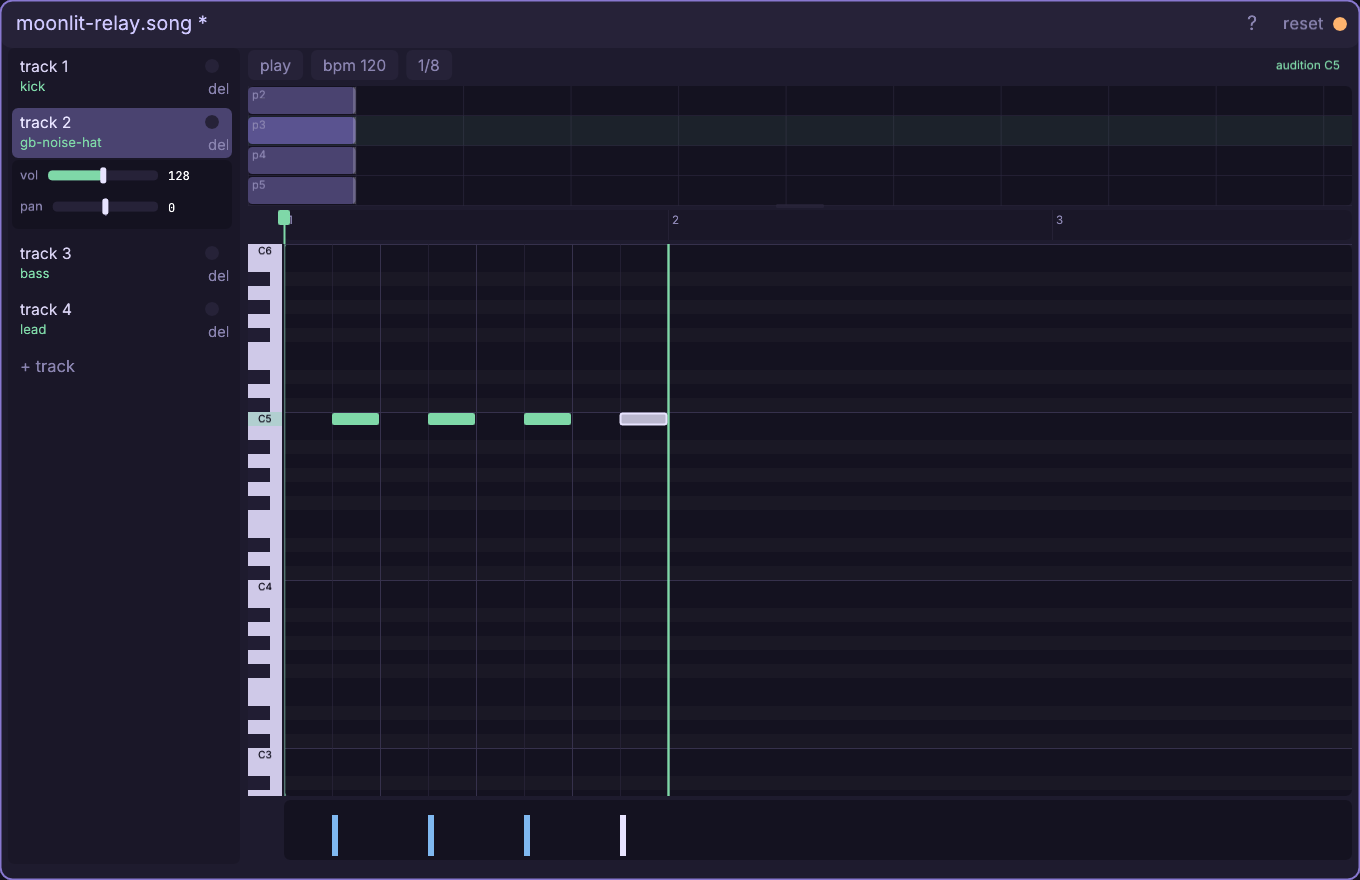
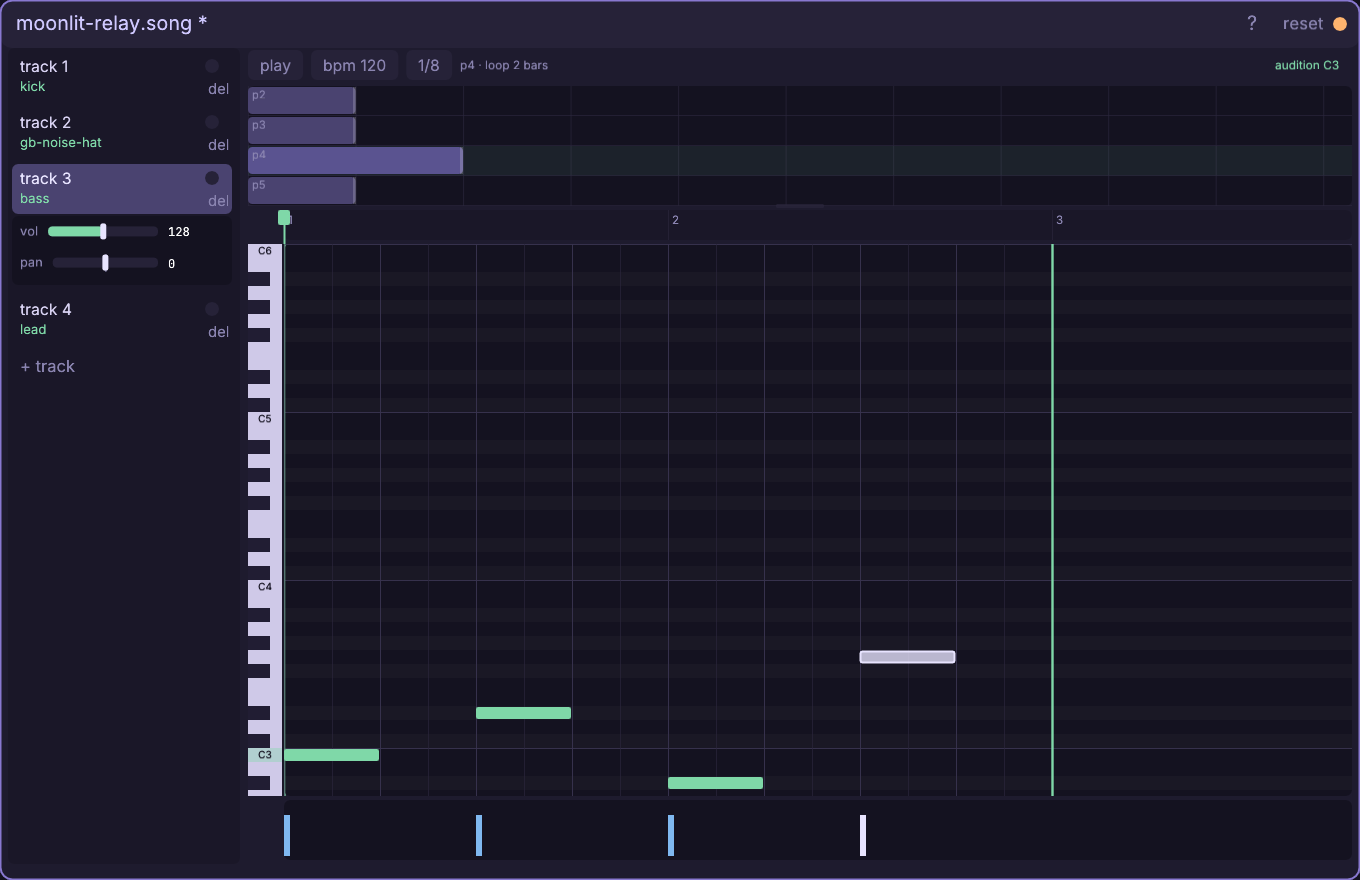
fix: carry pattern growth into its clip
Grow an untouched selected clip with its pattern and expose the active loop period in the transport. Correct the H8 sustain and one-bar-loop lessons, then re-tape their captures.

diff --git a/engine/stock/docs/win-music.md b/engine/stock/docs/win-music.md
@@ -26,6 +26,12 @@ Music time is exact. One beat is 96 ticks; one four-beat bar is 384. With the
 the transport's right bay names the snapped destination, for example
 `bar 1 beat 4+48 · C3 · tick 336`. Over a stored note it also reports
 duration and velocity. The keyboard uses sharp names, so A-sharp is `A#`.
+Beside the grid, `pN · loop N bars` names the active pattern's period.
+
+Patterns authored in this window have a **one-bar minimum** and grow in whole
+bars. A one-beat phrase inside a one-bar pattern therefore repeats at the next
+bar, not four times inside that bar. To make a beat repeat today, place its
+notes across the bar; Music v1 has no sub-bar pattern-length control.
 
 1. Right-click empty canvas and choose **music**. Replace the suggested path
    with `sound/moonlit-relay.song` and press Enter. The fresh song opens at
@@ -51,19 +57,23 @@ duration and velocity. The keyboard uses sharp names, so A-sharp is `A#`.
    tick `96`, then right-click that mistaken note to remove it. Add C3 at
    ticks `192` and `336`. The result is beats 1 and 3 plus the final eighth
    before the loop. A plain click stores a 48-tick note; holding the press
-   keeps auditioning without making it longer.
-6. Select track 2. On C5, press and hold tick `48` for a moment, then release:
-   the hat rings for as long as your hand is down but remains one grid cell.
-   Add C5 at ticks `144`, `240`, and `336`. Press and hold the C5 key in the
-   piano column to audition the bound hat without recording another note.
+   keeps its audition gate open without making it longer.
+6. Select track 2 and click C5 at ticks `48`, `144`, `240`, and `336`. These
+   are the four off-beats. `gb-noise-hat` has a deliberately short decay, so
+   holding its key keeps the audition gate open but does not turn it into a
+   sustained sound. The bass in the next step makes that gesture audible.
+7. Select track 3. Before recording, press and hold the C3 piano key: the bass
+   sustains until release and no note appears. Now press C3 at tick `0` and
+   drag its end through tick `96`; after release the bay reads `dur 96`, and
+   quarter-note length becomes the new placement default. Click E-flat 3 at
+   `192`, then A-sharp 2 at `384`. That first bar-2 note changes the transport
+   readout from `p4 · loop 1 bar` to `p4 · loop 2 bars`, moves the roll's end
+   line, and grows the still-untrimmed `p4` arrangement clip to match. Add G3
+   at `576` inside the new second bar. Pattern and matching clip never
+   auto-shrink after later note moves or deletes.
 
-![Four bound tracks and the off-beat hat pattern while the C5 piano key is held](media/[email redacted])
+![The two-bar bass pattern while its C3 piano key is held for an audible sustained audition](media/[email redacted])
 
-7. Select track 3. Press C3 at tick `0` and drag its end through tick `96`;
-   after release the bay reads `dur 96`, and quarter-note length becomes the
-   new placement default. Click E-flat 3 at `192`, A-sharp 2 at `384`, and G3
-   at `576`. The final two notes are in bar 2, so the pattern end grows from
-   one bar to two and never snaps back shorter.
 8. Select track 4 and place the first lead motif with the inherited 96-tick
    length: G4 at `0`, A-sharp 4 at `144`, C5 at `192`, and E-flat 5 at
    `336`. Drag the right edges of the A-sharp and E-flat notes back to
@@ -80,16 +90,17 @@ duration and velocity. The keyboard uses sharp names, so A-sharp is `A#`.
    the one-bar drums repeat eight times, while the two-bar bass turn repeats
    four times. If the edge is cramped, wheel over the arrangement to zoom its
    own time view; the roll zoom below does not change.
-11. Resize the lead's `p5` clip to two bars, then drag it to bar 3
-   (tick `768`). Hold Ctrl and drag that clip to bar 5 (tick `1536`).
+11. The bar-2 ghost already grew the untouched `p5` clip to two bars. Drag it
+   to bar 3 (tick `768`). Hold Ctrl and drag that clip to bar 5 (tick `1536`).
    The copy is linked: both clips say `p5` and glow together because editing
    either placement edits their one shared pattern.
 12. Click empty track-4 arrangement space at bar 7 (tick `2304`). A fresh
    `p6` clip and independent pattern appear. Press Ctrl+V and place the saved
    motif at pattern tick `0` with its first note on C5. Arm Ctrl+V again and
-   place it at tick `384` with its first note on A-sharp 4. Resize `p6` to two
-   bars. The final lead lane reads `p5 · p5 · p6`: statement, linked repeat,
-   then a separately editable answer.
+   place it at tick `384` with its first note on A-sharp 4. That second paste
+   automatically grows `p6` and its untouched clip to two bars. The final lead
+   lane reads `p5 · p5 · p6`: statement, linked repeat, then a separately
+   editable answer.
 
 ![The finished eight-bar rail: three backing loops, linked p5 lead clips, and the independent p6 answer](media/[email redacted])
 

diff --git a/engine/stock/docs/ref-music.md b/engine/stock/docs/ref-music.md
@@ -162,6 +162,9 @@ same gain/pan composition functions.
 - **1/1 … 1/32** — each click advances through the six placement grids. Keys
   1–6 select them directly. Grid choice is view state, so it does not dirty
   the song.
+- **pN · loop N bars** — permanently names the active pattern and its exact
+  repeat period. Editor-authored patterns have a one-bar floor and whole-bar
+  growth. This label is information, not a button.
 - The free right side carries the roll address or held-key audition described
   above.
 
@@ -251,9 +254,19 @@ Horizontal octave lines align with C. The accent line at the pattern end is
 the length that clips loop.
 
 A pattern starts at one or four bars depending on how it was created. A note
-commit calls `fit_pattern`: if content crosses the end, length grows to the
+commit fits its content: if content crosses the end, length grows to the
 smallest fitting whole bar. It never auto-shrinks after notes move or delete,
 because a stable short pattern is the unit clips loop.
+
+When the selected clip still has exactly the old pattern length, that clip
+grows with the pattern so the new bar is immediately visible and audible. A
+clip that was deliberately shortened or extended keeps its independent
+authored length. Other linked placements also keep their own clip lengths.
+
+The authoring floor is one complete bar. A one-beat phrase in an otherwise
+empty four-beat pattern loops once per bar, leaving three beats of space; it
+does not repeat on every beat. There is no sub-bar pattern-period control in
+v1. Put repeated notes across the bar when that is the wanted rhythm.
 
 ### Focused view lock
 
@@ -279,13 +292,16 @@ The narrow left column is a playable keyboard aligned exactly to roll rows.
 Black keys use the accidental shape; C rows carry octave labels.
 
 - **left press** — auditions that pitch on the selected track's instrument;
-- **hold** — sustains until release, like the Synth piano;
+- **hold** — keeps the note gate open until release, like the Synth piano;
 - **drag while held** — glissandos row by row, releasing the old pitch through
   its short safety fuse and holding the new one;
 - hovering either keys or roll highlights the matching key.
 
-Key audition never creates a note. Missing instruments stay silent, though
-the visual gesture still works. Playback itself does not light keys in v1.
+The audible hold follows the instrument envelope: a bass or lead can sustain,
+while a deliberately short hat may decay almost immediately even though its
+gate remains held. Key audition never creates a note. Missing instruments stay
+silent, though the visual gesture still works. Playback itself does not light
+keys in v1.
 
 ## Add, select and audition notes
 
@@ -295,11 +311,12 @@ Left-press empty roll space to add at the grid-snapped tick and pointer pitch.
 The note gets velocity 100 and the last-used duration; before any resize, that
 duration is one active-grid cell.
 
-Holding the press sustains the audible audition indefinitely but does not grow
-the stored note. Drag horizontally past the three-pixel threshold to set its
-duration instead. The right end uses ceiling snap, so it covers the cursor and
-has at least one grid cell. A changed add length becomes the next placement
-default. The completed add is one undo entry and becomes the only selection.
+Holding the press keeps the audition gate open until release but does not grow
+the stored note; audible sustain still follows the bound instrument's envelope.
+Drag horizontally past the three-pixel threshold to set duration instead. The
+right end uses ceiling snap, so it covers the cursor and has at least one grid
+cell. A changed add length becomes the next placement default. The completed
+add is one undo entry and becomes the only selection.
 
 ### Select and move
 
@@ -486,8 +503,9 @@ Tracks cannot be renamed or scrolled in the rail. Clips have no labels,
 colors, unlink/private-copy button, fades, crossfades, slip editing, clipboard,
 or right-click menu. Pattern garbage is not collected after every last clip is
 deleted. The roll has no vertical zoom, playback-key lighting, or fit command.
-The arrangement has no loop-region handles even though CSNG retains loop
-fields. These are honest boundaries, not hidden shortcuts.
+Pattern periods cannot be shorter than one bar through the current editor. The
+arrangement has no loop-region handles even though CSNG retains loop fields.
+These are honest boundaries, not hidden shortcuts.
 
 Full reference: [the hands-on Music tutorial](engine/stock/docs/win-music.md),
 [every Synth control](engine/stock/docs/ref-synth.md), and

diff --git a/docs/AUDIO.md b/docs/AUDIO.md
@@ -436,8 +436,9 @@ The human's live rounds shaped the rest:
   sharing survives save/load (`normalize` no longer splits — it only
   heals a clip pointing at a missing pattern).
 - **The piano roll** (center) — the current round-13 grammar. Press
-  empty to add at the last-used length; holding auditions indefinitely
-  without growing bytes, while a horizontal drag sets length with a
+  empty to add at the last-used length; holding keeps the audition gate
+  open without growing bytes (audible sustain still follows the patch),
+  while a horizontal drag sets length with a
   ceil-snapped end. Pressing an existing note SELECTS and auditions it;
   dragging moves the selection by grid-sized time deltas and semitone
   pitch deltas, with the held voice following pitch. Right-edge drag
@@ -454,7 +455,7 @@ The human's live rounds shaped the rest:
   arms a one-shot translucent GHOST at the pointer — click places,
   Esc/right-click cancels, pan/zoom stay live, and the same clipboard
   crosses patterns and song windows.
-  A playable **piano-key column** holds auditions until release and
+  A playable **piano-key column** holds audition gates until release and
   glissandos on drag. HELPDOCS H8 adds the exact right-side address bay:
   snapped bar/beat, pitch, tick, then stored duration/velocity over a
   note.
@@ -480,6 +481,11 @@ short pattern to fill, so shrinking fought resizing). **Stamping makes
 a fresh pattern** (round 7 — nothing shares by accident), but clips MAY
 **deliberately share** one (round 8 — ctrl+drag / ctrl+press); editing
 it updates every placement and the link survives save/load.
+When the selected clip still exactly fits the old pattern, editor growth now
+extends that clip too; manually truncated/extended and other linked placements
+keep their own lengths. The permanent `pN · loop N bars` readout exposes the
+period. Current authoring has no sub-bar loop: a one-beat phrase in a four-beat
+pattern repeats next bar, not next beat.
 Playback state (playhead) is ephemeral;
 the bytes are the asset. Ctrl+S writes the .song (and refreshes the
 asset browser via the kit save door).